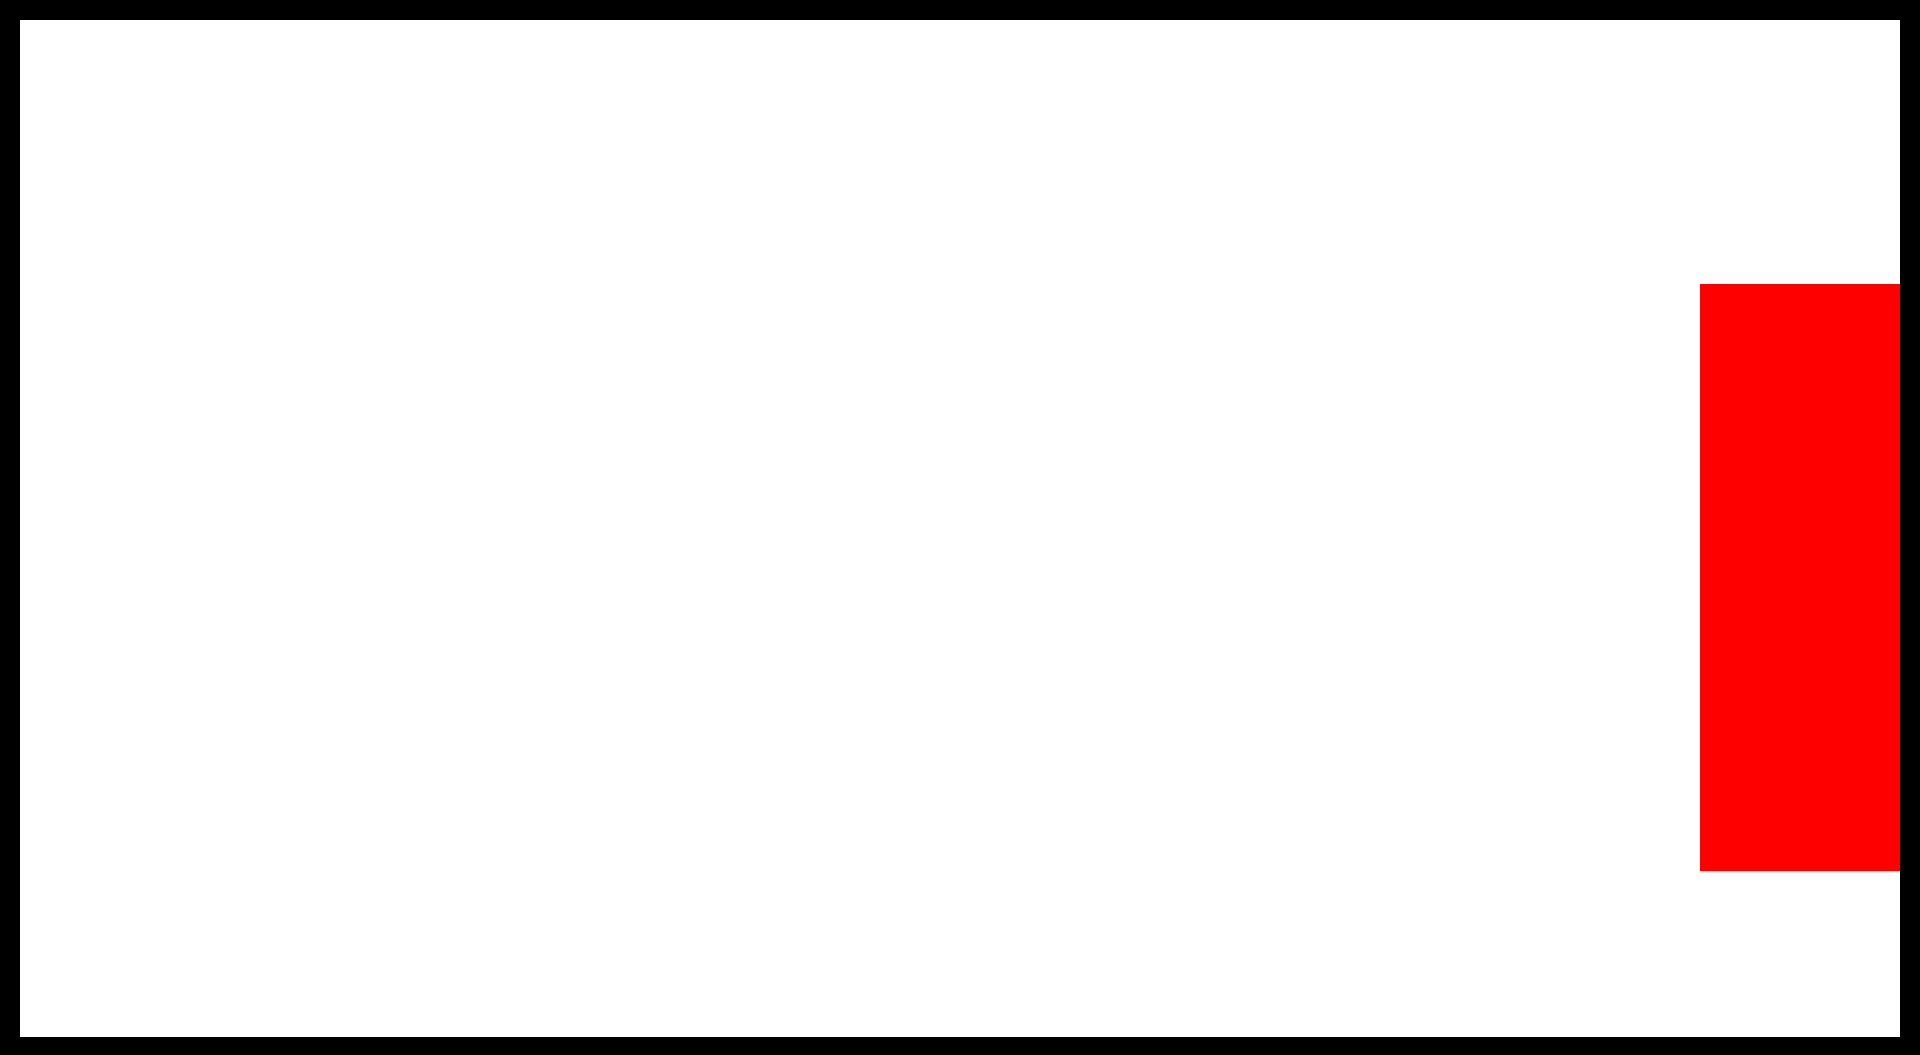
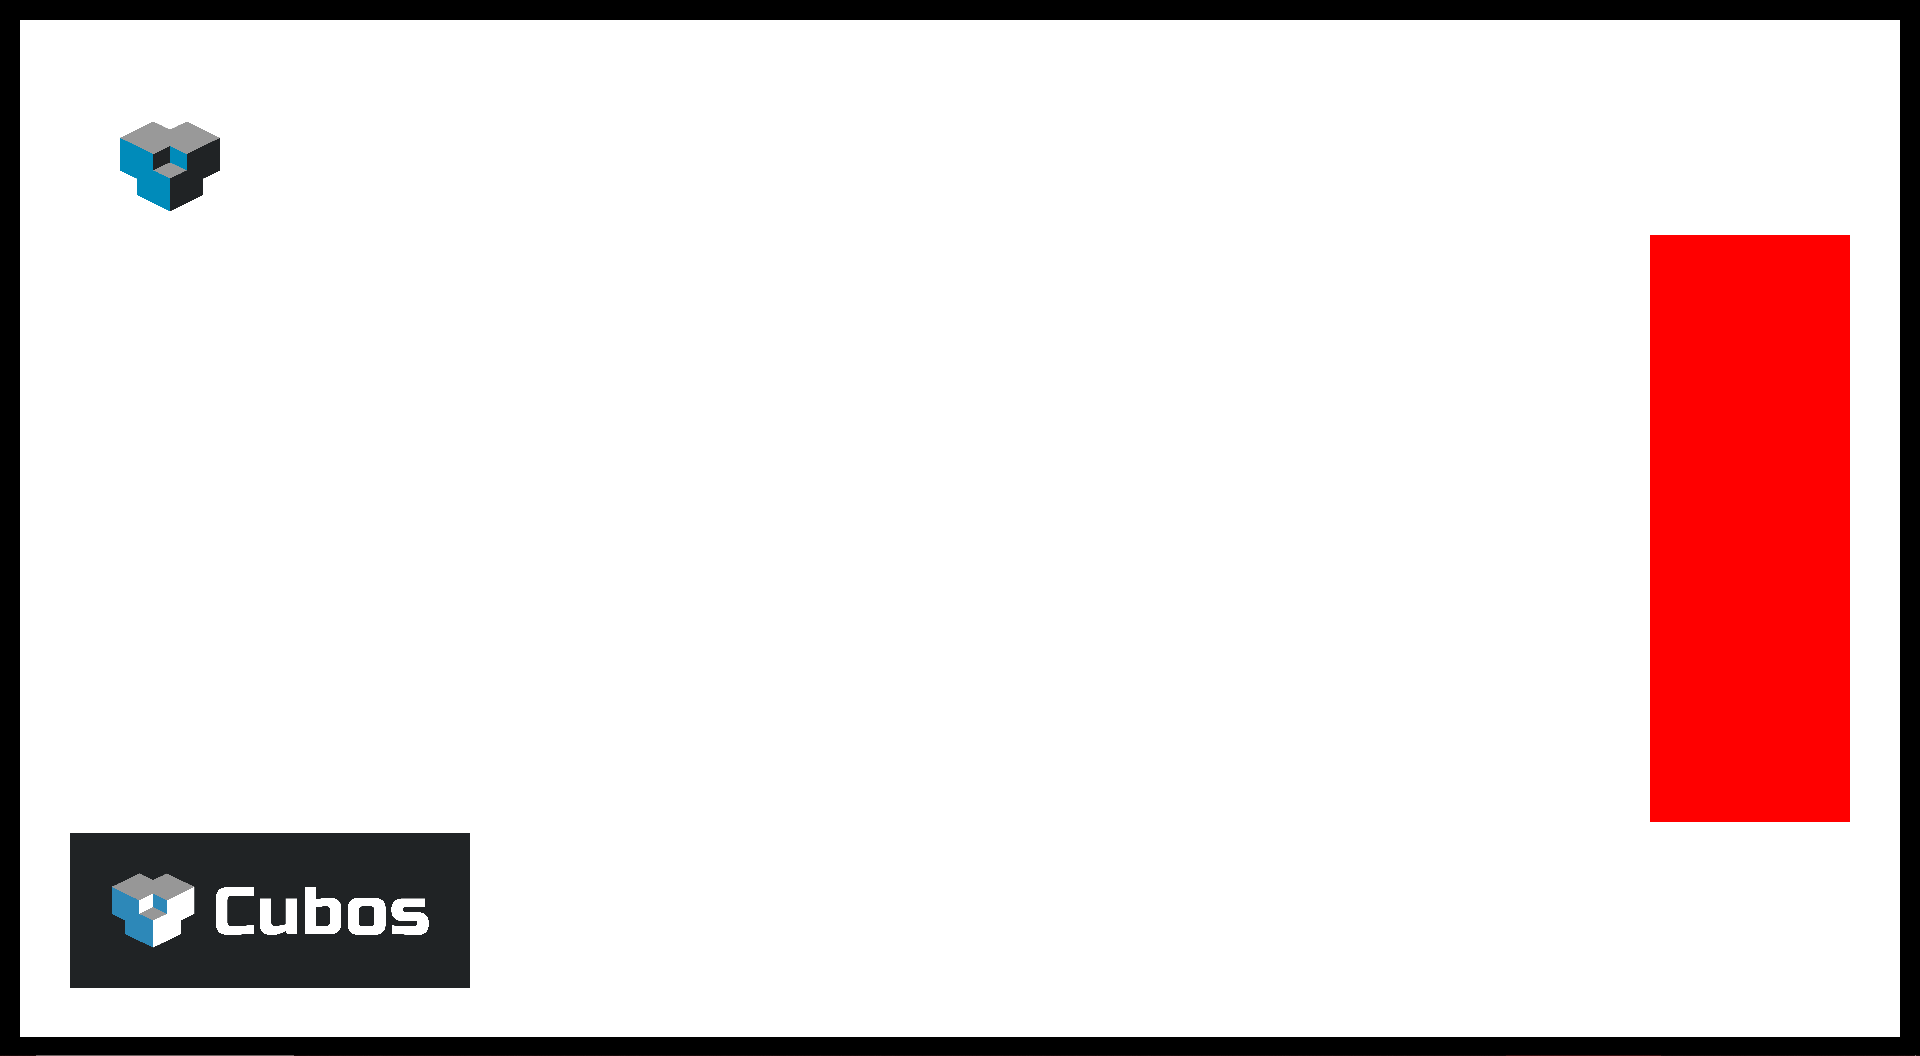
feat(ui): add UIImage element

Changed region(s): [[0.8438, 0.2123, 1.0, 0.8493], [0.0312, 0.7886, 0.25, 0.9403], [0.0625, 0.1213, 0.125, 0.2123]]

diff --git a/engine/src/ui/canvas/plugin.cpp b/engine/src/ui/canvas/plugin.cpp
@@ -13,6 +13,7 @@
 #include <cubos/engine/ui/canvas/draw_list.hpp>
 #include <cubos/engine/ui/canvas/element.hpp>
 #include <cubos/engine/ui/canvas/horizontal_stretch.hpp>
+#include <cubos/engine/ui/canvas/native_aspect_ratio.hpp>
 #include <cubos/engine/ui/canvas/plugin.hpp>
 #include <cubos/engine/ui/canvas/vertical_stretch.hpp>
 #include <cubos/engine/window/plugin.hpp>
@@ -64,6 +65,7 @@ void cubos::engine::uiCanvasPlugin(Cubos& cubos)
     cubos.component<UICanvas>();
     cubos.component<UIHorizontalStretch>();
     cubos.component<UIVerticalStretch>();
+    cubos.component<UINativeAspectRatio>();
     cubos.uninitResource<State>();
 
     cubos.tag(uiCanvasChildrenUpdateTag);
@@ -99,20 +101,41 @@ void cubos::engine::uiCanvasPlugin(Cubos& cubos)
         .withOpt<UIVerticalStretch>()
         .related<ChildOf>()
         .with<UICanvas>()
-        .call([](Query<UIElement&, Opt<const UIHorizontalStretch&>, Opt<const UIVerticalStretch&>, const UICanvas&>
+        .call([](Query<UIElement&, Opt<const UIHorizontalStretch&>, Opt<const UIVerticalStretch&>,
+                       Opt<const UINativeAspectRatio&>, const UICanvas&>
                      query) {
-            for (auto [element, hs, vs, canvas] : query)
+            for (auto [element, hs, vs, nar, canvas] : query)
             {
                 element.position = element.anchor * canvas.referenceSize + element.offset;
                 if (hs.contains())
                 {
                     element.size.x = canvas.referenceSize.x - hs.value().rightOffset - hs.value().leftOffset;
                     element.position.x = hs.value().leftOffset + element.size.x * element.pivot.x + element.offset.x;
+                    if (nar.contains() && !vs.contains() && nar.value().ratio != 0)
+                    {
+                        element.size.y = element.size.x / nar.value().ratio;
+                    }
                 }
                 if (vs.contains())
                 {
                     element.size.y = canvas.referenceSize.y - vs.value().topOffset - vs.value().bottomOffset;
                     element.position.y = vs.value().bottomOffset + element.size.y * element.pivot.y + element.offset.y;
+                    if (nar.contains() && !hs.contains() && nar.value().ratio != 0)
+                    {
+                        element.size.x = element.size.y * nar.value().ratio;
+                    }
+                }
+                if (nar.contains() && (vs.contains() == hs.contains()))
+                {
+                    float currentRatio = element.size.x / element.size.y;
+                    if (currentRatio > nar.value().ratio)
+                    {
+                        element.size.x = element.size.y * nar.value().ratio;
+                    }
+                    else
+                    {
+                        element.size.y = element.size.x / nar.value().ratio;
+                    }
                 }
             }
         });
@@ -122,11 +145,13 @@ void cubos::engine::uiCanvasPlugin(Cubos& cubos)
         .with<UIElement>()
         .withOpt<UIHorizontalStretch>()
         .withOpt<UIVerticalStretch>()
+        .withOpt<UINativeAspectRatio>()
         .related<ChildOf>(core::ecs::Traversal::Down)
         .with<UIElement>()
-        .call([](Query<UIElement&, Opt<const UIHorizontalStretch&>, Opt<const UIVerticalStretch&>, const UIElement&>
+        .call([](Query<UIElement&, Opt<const UIHorizontalStretch&>, Opt<const UIVerticalStretch&>,
+                       Opt<const UINativeAspectRatio&>, const UIElement&>
                      children) {
-            for (auto [child, hs, vs, parent] : children)
+            for (auto [child, hs, vs, nar, parent] : children)
             {
                 child.position = child.anchor * parent.topRightCorner() +
                                  (glm::vec2{1, 1} - child.anchor) * parent.bottomLeftCorner() + child.offset;
@@ -137,6 +162,10 @@ void cubos::engine::uiCanvasPlugin(Cubos& cubos)
                                    hs.value().leftOffset;
                     child.position.x = parent.bottomLeftCorner().x + hs.value().leftOffset +
                                        child.size.x * child.pivot.x + child.offset.x;
+                    if (nar.contains() && !vs.contains() && nar.value().ratio != 0)
+                    {
+                        child.size.y = child.size.x / nar.value().ratio;
+                    }
                 }
                 if (vs.contains())
                 {
@@ -144,6 +173,22 @@ void cubos::engine::uiCanvasPlugin(Cubos& cubos)
                                    vs.value().bottomOffset;
                     child.position.y = parent.bottomLeftCorner().y + vs.value().bottomOffset +
                                        child.size.y * child.pivot.y + child.offset.y;
+                    if (nar.contains() && !hs.contains() && nar.value().ratio != 0)
+                    {
+                        child.size.x = child.size.y * nar.value().ratio;
+                    }
+                }
+                if (nar.contains() && (vs.contains() == hs.contains()))
+                {
+                    float currentRatio = child.size.x / child.size.y;
+                    if (currentRatio > nar.value().ratio)
+                    {
+                        child.size.x = child.size.y * nar.value().ratio;
+                    }
+                    else
+                    {
+                        child.size.y = child.size.x / nar.value().ratio;
+                    }
                 }
             }
         });

diff --git a/engine/src/ui/image/plugin.cpp b/engine/src/ui/image/plugin.cpp
@@ -1,0 +1,127 @@
+#include <glm/glm.hpp>
+
+#include <cubos/engine/assets/plugin.hpp>
+#include <cubos/engine/render/shader/plugin.hpp>
+#include <cubos/engine/ui/canvas/draw_list.hpp>
+#include <cubos/engine/ui/canvas/element.hpp>
+#include <cubos/engine/ui/canvas/native_aspect_ratio.hpp>
+#include <cubos/engine/ui/canvas/plugin.hpp>
+#include <cubos/engine/ui/image/image.hpp>
+#include <cubos/engine/ui/image/plugin.hpp>
+#include <cubos/engine/window/plugin.hpp>
+
+using cubos::core::io::Window;
+
+using namespace cubos::engine;
+
+namespace
+{
+    struct PerElement
+    {
+        glm::vec2 xRange;
+        glm::vec2 yRange;
+        glm::vec4 color;
+        int depth;
+        float padding[3] = {0.0F, 0.0F, 0.0F};
+    };
+
+    struct State
+    {
+        VertexArray va;
+        UIDrawList::Type drawType;
+
+        State(RenderDevice& renderDevice, const ShaderPipeline& pipeline)
+        {
+            VertexArrayDesc vad;
+            vad.elementCount = 1;
+            vad.elements[0].name = "position";
+            vad.elements[0].type = cubos::core::gl::Type::Float;
+            vad.elements[0].size = 3;
+            vad.elements[0].buffer.index = 0;
+            vad.elements[0].buffer.offset = 0;
+            vad.elements[0].buffer.stride = 3 * sizeof(float);
+
+            vad.shaderPipeline = pipeline;
+            float verts[] = {0.0F, 0.0F, 0.0F, 1.0F, 0.0F, 0.0F, 0.0F, 1.0F, 0.0F,
+                             0.0F, 1.0F, 0.0F, 1.0F, 0.0F, 0.0F, 1.0F, 1.0F, 0.0F};
+            cubos::core::gl::VertexBuffer vb =
+                renderDevice.createVertexBuffer(sizeof(verts), verts, cubos::core::gl::Usage::Dynamic);
+            vad.buffers[0] = vb;
+            va = renderDevice.createVertexArray(vad);
+
+            drawType.constantBuffer = renderDevice.createConstantBuffer(sizeof(PerElement), nullptr, Usage::Dynamic);
+            drawType.texBindingPoint[0] = pipeline->getBindingPoint("image");
+            drawType.constantBufferBindingPoint = pipeline->getBindingPoint("PerElement");
+            drawType.perElementSize = sizeof(PerElement);
+            drawType.pipeline = pipeline;
+        }
+    };
+} // namespace
+
+void cubos::engine::uiImagePlugin(Cubos& cubos)
+{
+    static const Asset<Shader> VertexShader = AnyAsset("37b485cc-a404-480e-9989-bb79373e354b");
+    static const Asset<Shader> PixelShader = AnyAsset("82775d47-0aa4-465f-8e3d-05ea1a9b78c0");
+
+    cubos.component<UIImage>();
+
+    cubos.depends(uiCanvasPlugin);
+    cubos.depends(windowPlugin);
+    cubos.depends(shaderPlugin);
+    cubos.depends(assetsPlugin);
+
+    cubos.uninitResource<State>();
+
+    cubos.startupSystem("setup UI image")
+        .tagged(assetsTag)
+        .after(windowInitTag)
+        .call([](Commands cmds, const Window& window, const Assets& assets) {
+            auto& rd = window->renderDevice();
+            auto vs = assets.read(VertexShader)->shaderStage();
+            auto ps = assets.read(PixelShader)->shaderStage();
+            cmds.emplaceResource<State>(rd, rd.createShaderPipeline(vs, ps));
+        });
+
+    cubos.system("set UI Image native aspect ration")
+        .before(uiCanvasChildrenUpdateTag)
+        .with<UIImage>()
+        .with<UINativeAspectRatio>()
+        .call([](Query<const UIImage&, UINativeAspectRatio&> query, const Assets& assets) {
+            for (auto [image, ratio] : query)
+            {
+                if (image.texture == nullptr)
+                {
+                    auto asset = assets.read<Image>(image.asset);
+                    ratio.ratio = (float)asset->width / (float)asset->height;
+                }
+            }
+        });
+
+    cubos.system("draw UI images")
+        .tagged(uiDrawTag)
+        .with<UIElement>()
+        .with<UIImage>()
+        .call([](const Assets& assets, State& state, const Window& window, Query<UIElement&, UIImage&> query) {
+            for (auto [element, image] : query)
+            {
+                if (image.texture == nullptr)
+                {
+                    auto asset = assets.read<Image>(image.asset);
+                    Texture2DDesc textDesc{.data = {asset->data},
+                                           .width = asset->width,
+                                           .height = asset->height,
+                                           .usage = Usage::Default,
+                                           .format = TextureFormat::RGBA8UNorm};
+                    image.texture = window->renderDevice().createTexture2D(textDesc);
+                }
+                glm::vec2 min = element.position - element.size * element.pivot;
+                glm::vec2 max = element.position + element.size * (glm::vec2(1.0F, 1.0F) - element.pivot);
+                element
+                    .draw(
+                        state.drawType, state.va, 0, 6,
+                        PerElement{
+                            {min.x, max.x}, {min.y, max.y}, {1, 1, 1, 1}, element.layer * 100 + element.hierarchyDepth})
+                    .withTexture(0, image.texture);
+            }
+        });
+}

diff --git a/engine/samples/ui/main.cpp b/engine/samples/ui/main.cpp
@@ -1,4 +1,5 @@
 #include <cubos/engine/assets/plugin.hpp>
+#include <cubos/engine/image/plugin.hpp>
 #include <cubos/engine/prelude.hpp>
 #include <cubos/engine/render/shader/plugin.hpp>
 #include <cubos/engine/render/target/plugin.hpp>
@@ -9,10 +10,13 @@
 #include <cubos/engine/ui/canvas/canvas.hpp>
 #include <cubos/engine/ui/canvas/element.hpp>
 #include <cubos/engine/ui/canvas/horizontal_stretch.hpp>
+#include <cubos/engine/ui/canvas/native_aspect_ratio.hpp>
 #include <cubos/engine/ui/canvas/plugin.hpp>
 #include <cubos/engine/ui/canvas/vertical_stretch.hpp>
 #include <cubos/engine/ui/color_rect/color_rect.hpp>
 #include <cubos/engine/ui/color_rect/plugin.hpp>
+#include <cubos/engine/ui/image/image.hpp>
+#include <cubos/engine/ui/image/plugin.hpp>
 #include <cubos/engine/window/plugin.hpp>
 
 using namespace cubos::engine;
@@ -28,9 +32,15 @@ int main(int argc, char** argv)
     cubos.plugin(shaderPlugin);
     cubos.plugin(transformPlugin);
     cubos.plugin(uiCanvasPlugin);
+    cubos.plugin(imagePlugin);
+    cubos.plugin(uiImagePlugin);
     cubos.plugin(colorRectPlugin);
 
-    cubos.startupSystem("create ui elements").after(windowInitTag).call([](Commands commands) {
+    cubos.startupSystem("configure Assets").tagged(settingsTag).call([](Settings& settings) {
+        settings.setString("assets.io.path", SAMPLE_ASSETS_FOLDER);
+    });
+
+    cubos.startupSystem("create ui elements").after(windowInitTag).after(settingsTag).call([](Commands commands) {
         /// [Set up Canvas]
         auto canvas = commands.create().add(UICanvas{}).add(RenderTarget{}).entity();
         /// [Set up Canvas]
@@ -43,6 +53,7 @@ int main(int argc, char** argv)
                              .entity();
         commands.relate(elementBg, canvas, ChildOf{});
         /// [Set up Background]
+
         /// [Set up Panel]
         auto elementPanel =
             commands.create()
@@ -51,6 +62,23 @@ int main(int argc, char** argv)
                 .entity();
         commands.relate(elementPanel, elementBg, ChildOf{});
         /// [Set up Panel]
+
+        /// [Set up Logo]
+        auto logo = commands.create()
+                        .add(UIElement{.offset = {50, -50}, .size = {200, 200}, .pivot = {0, 1}, .anchor = {0, 1}})
+                        .add(UIImage{AnyAsset("50423317-a543-4614-9f4e-c2df975f5c0d")})
+                        .entity();
+        commands.relate(logo, elementBg, ChildOf{});
+        /// [Set up Logo]
+
+        /// [Set up Long Logo]
+        auto longLogo = commands.create()
+                            .add(UIElement{.offset = {50, 50}, .size = {400, 400}, .pivot = {0, 0}, .anchor = {0, 0}})
+                            .add(UIImage{AnyAsset("6c24c031-2eac-47c9-be30-485238c3e355")})
+                            .add(UINativeAspectRatio{})
+                            .entity();
+        commands.relate(longLogo, elementBg, ChildOf{});
+        /// [Set up Long Logo]
     });
 
     cubos.run();

diff --git a/engine/include/cubos/engine/ui/image/image.hpp b/engine/include/cubos/engine/ui/image/image.hpp
@@ -1,0 +1,29 @@
+/// @file
+/// @brief Component @ref cubos::engine::UIImage.
+/// @ingroup ui-image-plugin
+
+#pragma once
+
+#include <cubos/core/gl/render_device.hpp>
+#include <cubos/core/reflection/reflect.hpp>
+
+#include <cubos/engine/assets/asset.hpp>
+#include <cubos/engine/image/image.hpp>
+
+namespace cubos::engine
+{
+    /// @brief Component used to draw images on the UI.
+    ///
+    /// @ingroup ui-image-plugin
+    struct CUBOS_ENGINE_API UIImage
+    {
+        CUBOS_REFLECT;
+
+        /// @brief Handle to the image asset to be rendered.
+        ///
+        /// When null, no image will be rendered.
+        Asset<Image> asset{};
+
+        cubos::core::gl::Texture2D texture = nullptr; ///< Handle to the generated 2D texture.
+    };
+} // namespace cubos::engine

diff --git a/engine/include/cubos/engine/ui/image/plugin.hpp b/engine/include/cubos/engine/ui/image/plugin.hpp
@@ -1,0 +1,22 @@
+/// @dir
+/// @brief @ref ui-image-plugin plugin directory.
+
+/// @file
+/// @brief Plugin entry point.
+/// @ingroup ui-image-plugin
+
+#pragma once
+
+#include <cubos/engine/prelude.hpp>
+
+namespace cubos::engine
+{
+    /// @defgroup ui-image-plugin Color Rect
+    /// @ingroup ui-plugins
+    /// @brief Adds image element to UI.
+
+    /// @brief Plugin entry function.
+    /// @param cubos @b Cubos main class
+    /// @ingroup ui-image-plugin
+    CUBOS_ENGINE_API void uiImagePlugin(Cubos& cubos);
+} // namespace cubos::engine

diff --git a/engine/src/ui/image/image.cpp b/engine/src/ui/image/image.cpp
@@ -1,0 +1,8 @@
+#include <cubos/core/ecs/reflection.hpp>
+
+#include <cubos/engine/ui/image/image.hpp>
+
+CUBOS_REFLECT_IMPL(cubos::engine::UIImage)
+{
+    return core::ecs::TypeBuilder<UIImage>("cubos::engine::UIImage").withField("asset", &UIImage::asset).build();
+}

diff --git a/engine/samples/ui/page.md b/engine/samples/ui/page.md
@@ -26,4 +26,22 @@ Here we create a small panel to the right side of the screen. The anchor is set 
 
 We set this panel as child of the background, and we'll paint it red.
 
+Next let's add an image.
+
+@snippet ui/main.cpp Set up Logo
+
+To add an image, it's a simple matter of adding a @ref cubos::engine::UIImage component to an element, with the handle to an image asset.
+It will then be drawn onto that element's rect.
+
+We might, however, want to make sure that the image will retain its aspect ratio without having to manually adjust the element's size. The solution for that is the @ref cubos::engine::UINativeAspectRatio component. What it does is size down the element to have a size that is in line with the source file's aspect ratio.
+
+@note @ref cubos::engine::UINativeAspectRatio will behave differently when attached to a @ref cubos::engine::UIHorizontalStretch or a @ref cubos::engine::UIVerticalStretch component. It will keep the dimension that is being stretched, and alter the other one, which can result in either sizing up or down the element. In case both UIHorizontalStretch and UIVerticalStretch are present, UINativeAspectRatio will return to sizing the element down.
+
+@snippet ui/main.cpp Set up Longo Logo
+
+For this we will the use the extended version of our logo, which is rectangular. You'll notice that the UIElement it's being attached to is a square, but due to the UINativeAspectRatio component, that square will be sized down into proper shape.
+
+@note The @ref cubos::engine::UINativeAspectRatio is transformative. If you desire to keep the original size of the element information for other uses, it might be best to have the image instead be on a child entity of that element, and use both @ref cubos::engine::UIHorizontalStretch and @ref cubos::engine::UIVerticalStretch to achieve the same effect.
+
+
 ![](ui_output.png)

diff --git a/CHANGELOG.md b/CHANGELOG.md
@@ -19,6 +19,7 @@ and this project adheres to [Semantic Versioning](https://semver.org/spec/v2.0.0
 - GL timer for profiling sections of rendering code (#1228, **@tomas7770**).
 - Shadows plugin (#1185, **@tomas7770**).
 - Network Address class (#1211, **@roby2014**).
+- Image asset and UI Image component (#1270, **@DiogoMendonc-a**).
 
 ### Changed
 
